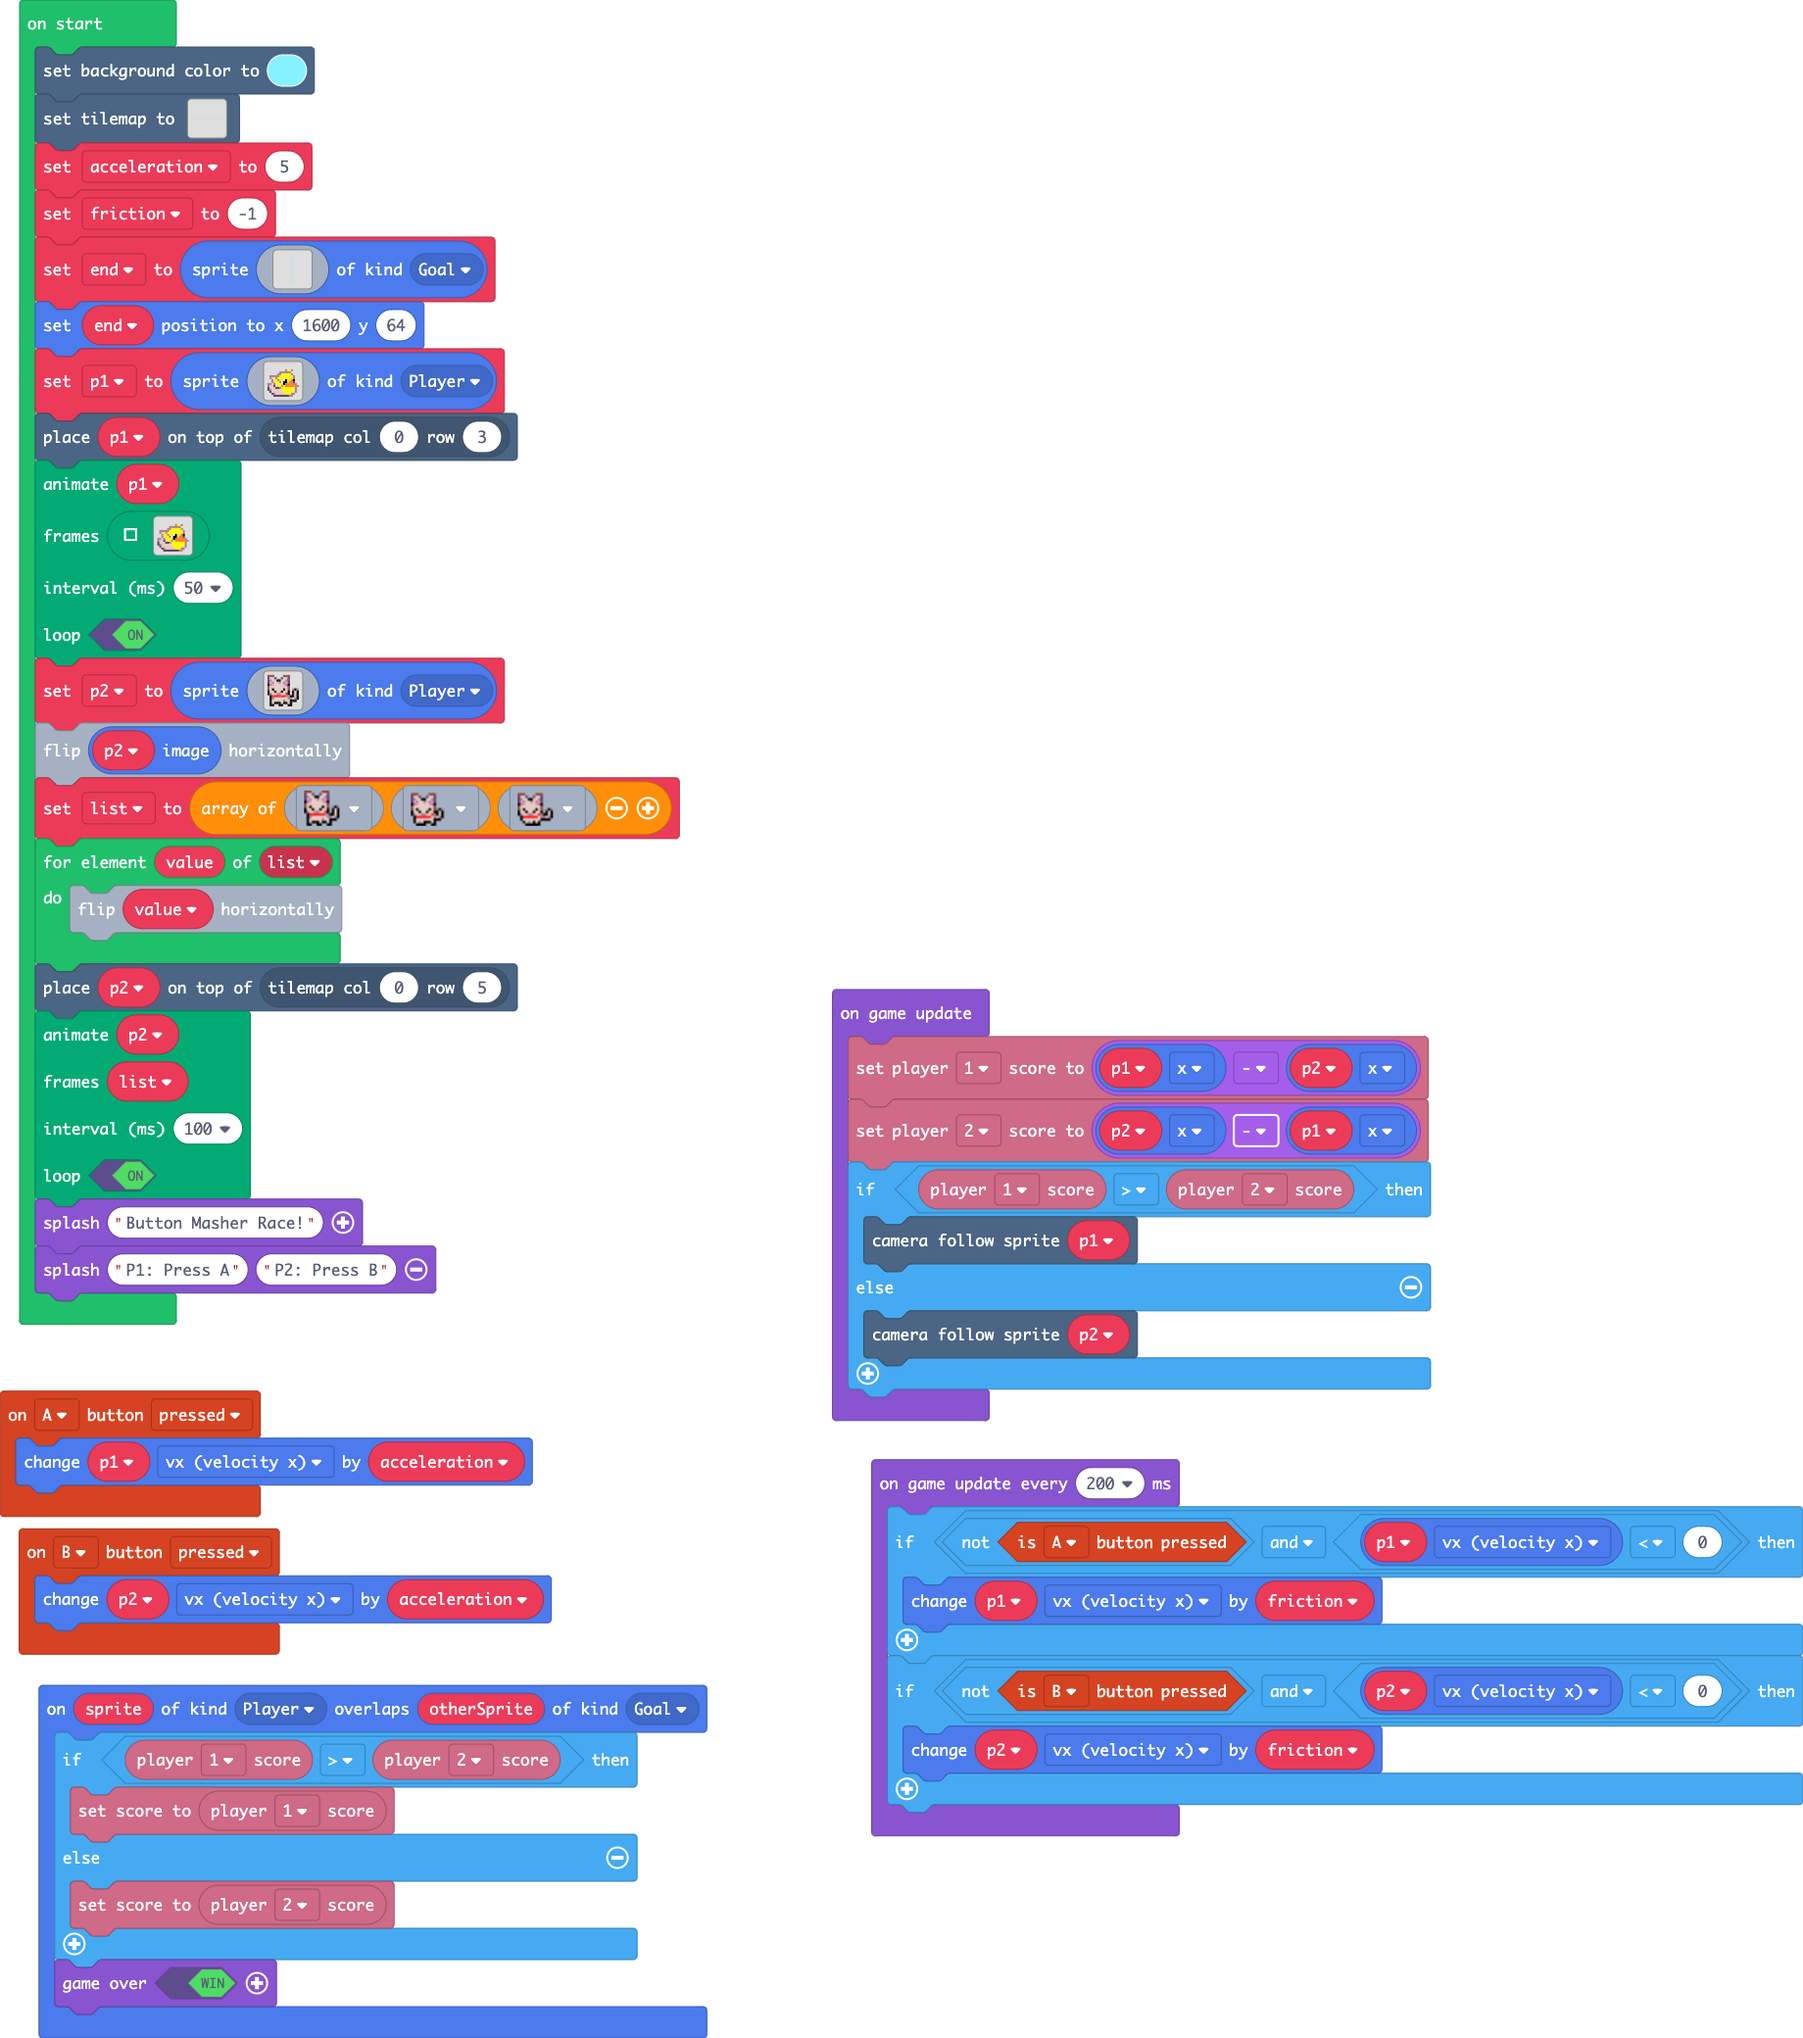
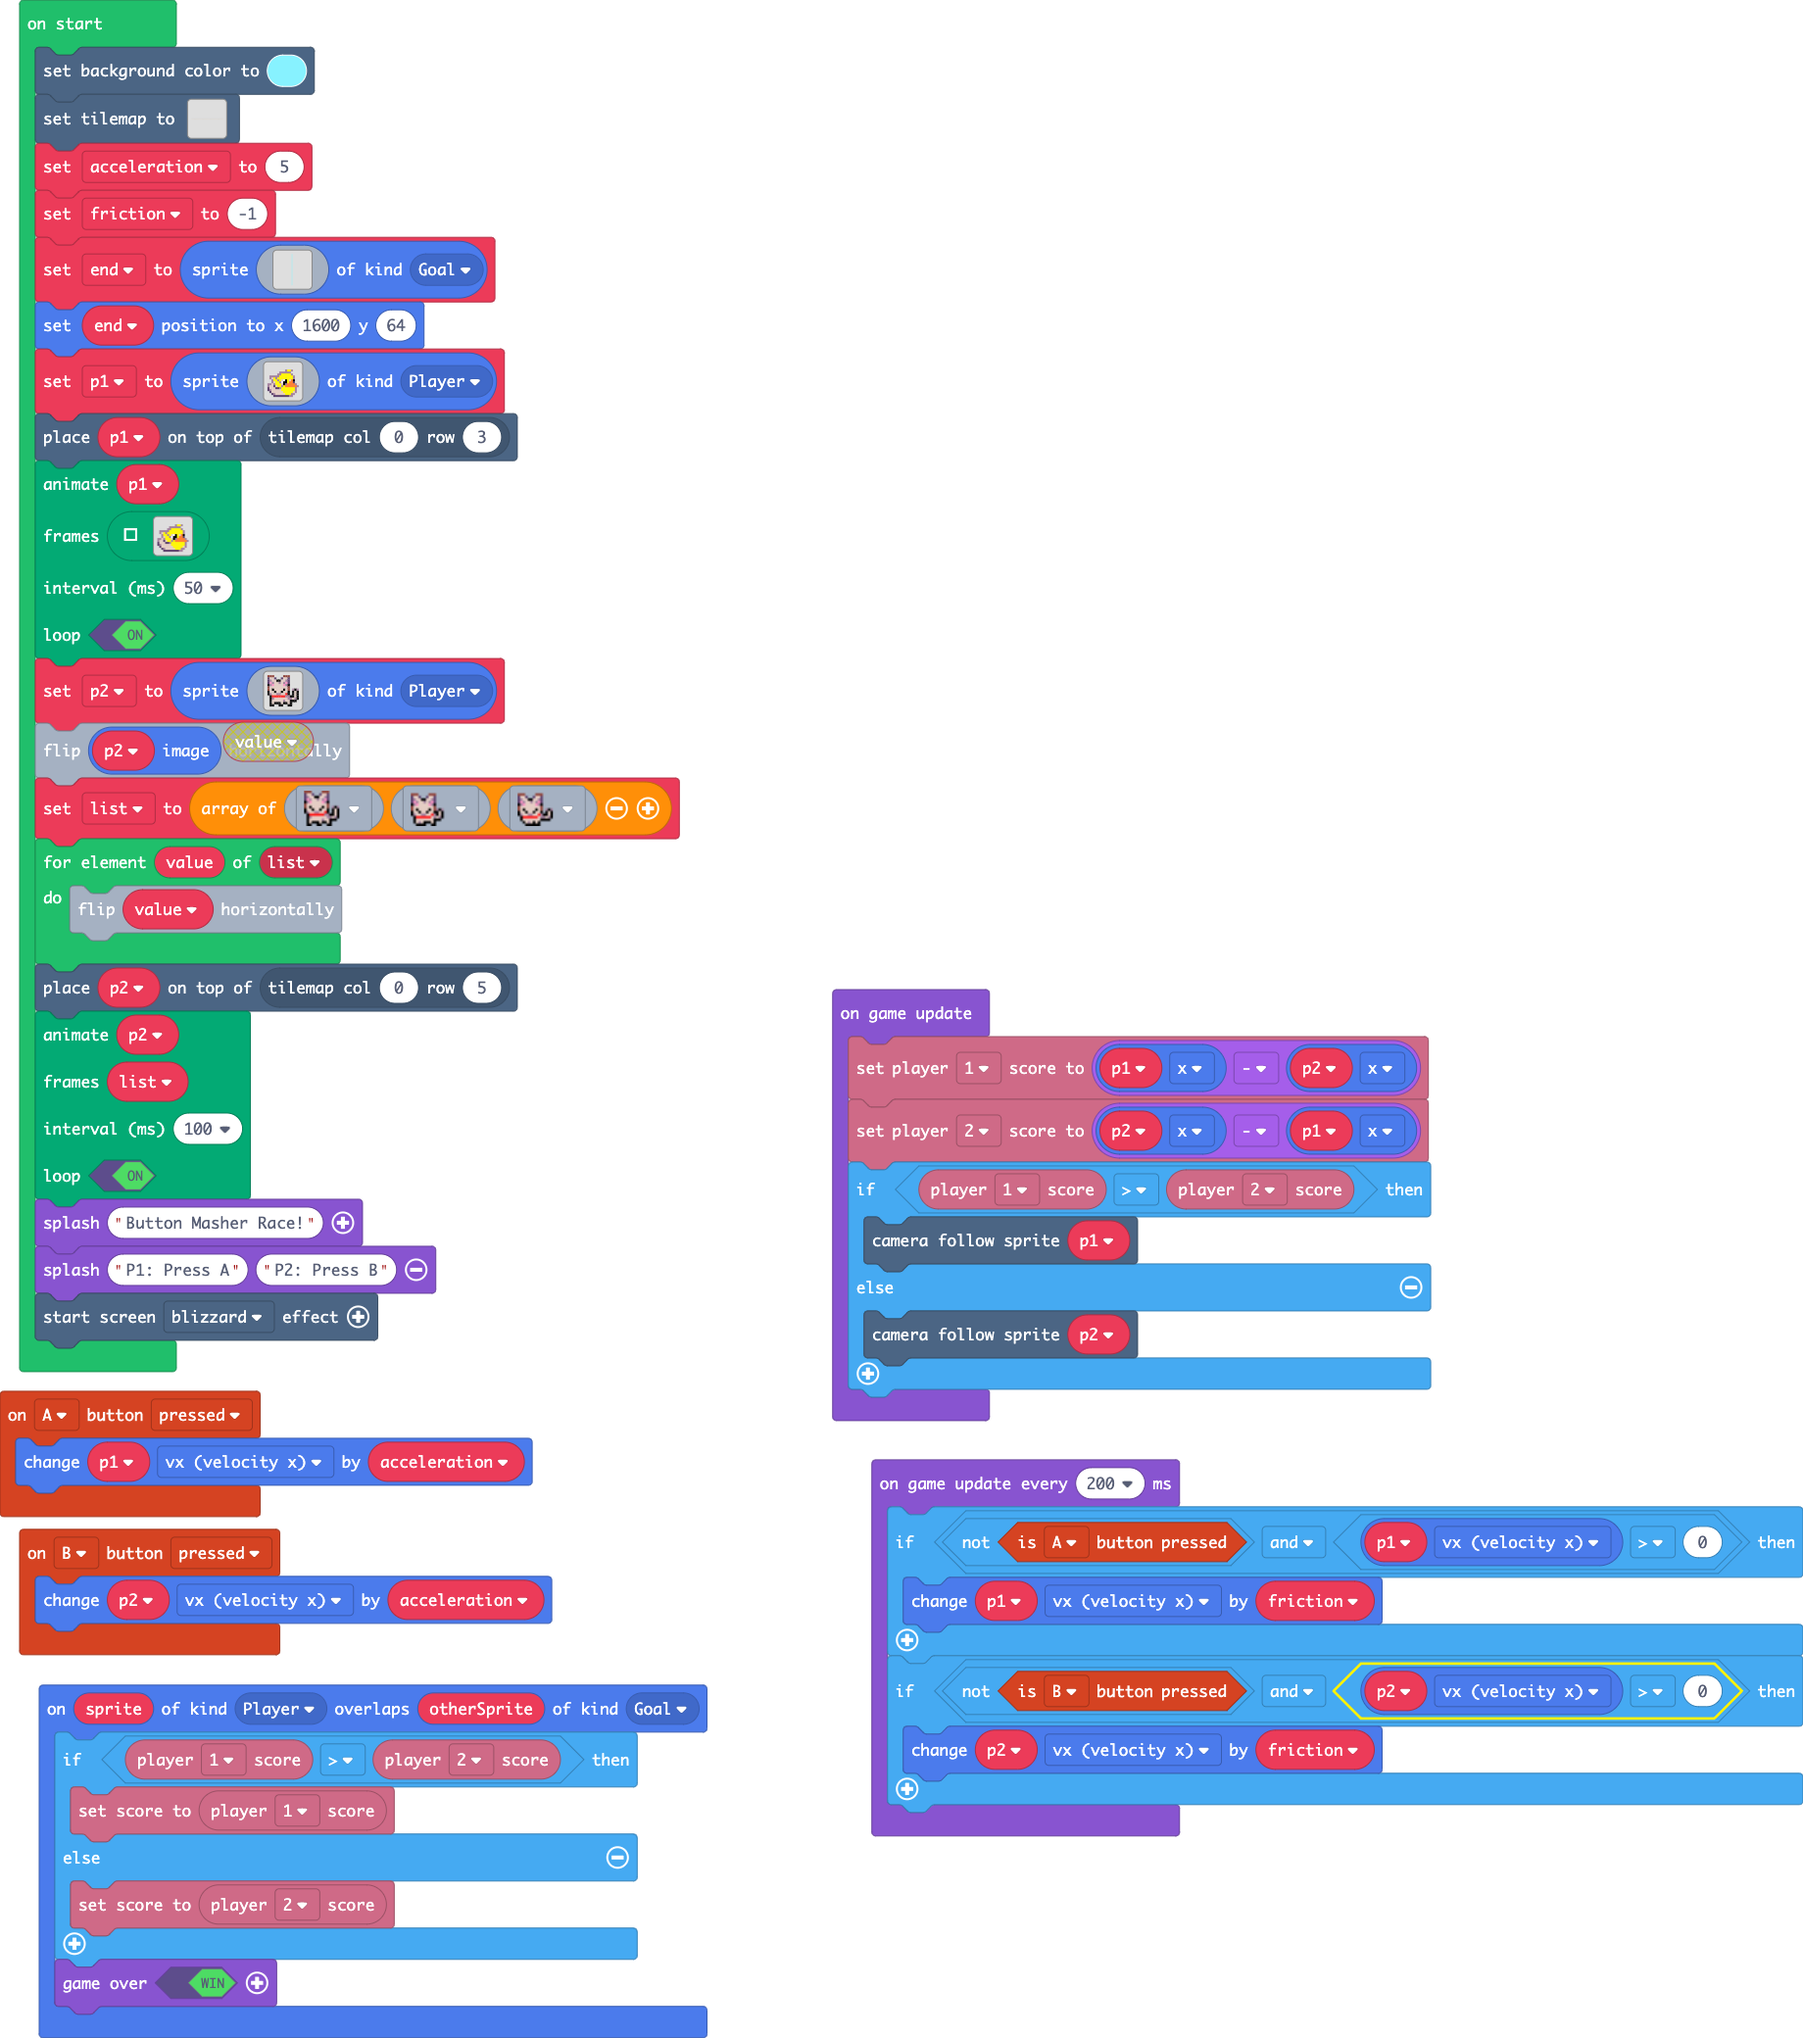
Update main.blocks, main.ts

diff --git a/main.ts b/main.ts
@@ -320,11 +320,12 @@ true
 )
 game.splash("Button Masher Race!")
 game.splash("P1: Press A", "P2: Press B")
+effects.blizzard.startScreenEffect()
 game.onUpdateInterval(200, function () {
-    if (!(controller.A.isPressed()) && p1.vx < 0) {
+    if (!(controller.A.isPressed()) && p1.vx > 0) {
         p1.vx += friction
     }
-    if (!(controller.B.isPressed()) && p2.vx < 0) {
+    if (!(controller.B.isPressed()) && p2.vx > 0) {
         p2.vx += friction
     }
 })
